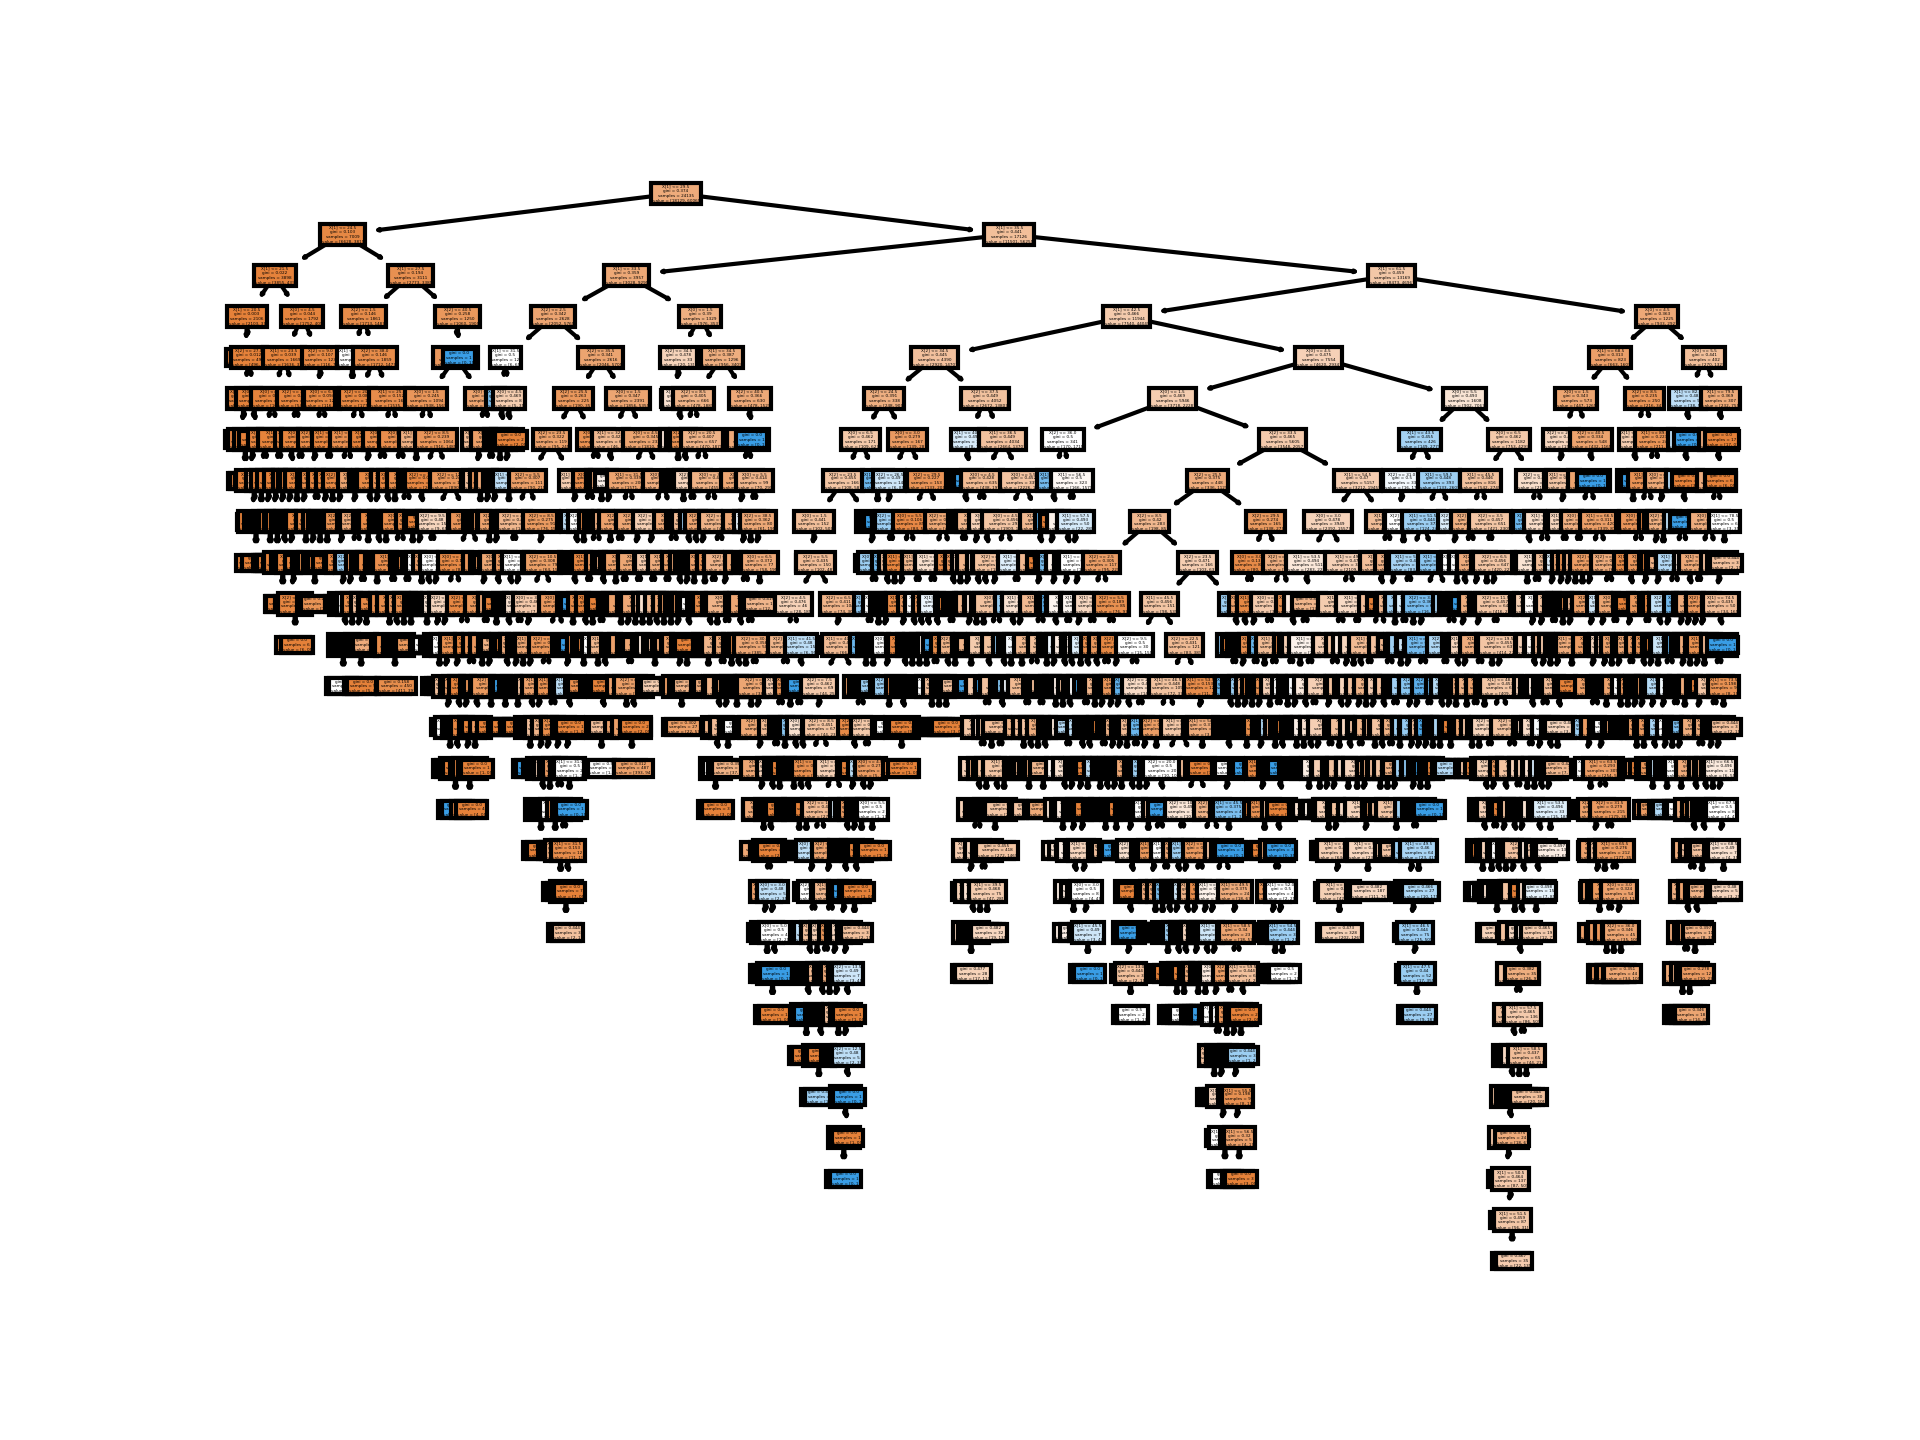
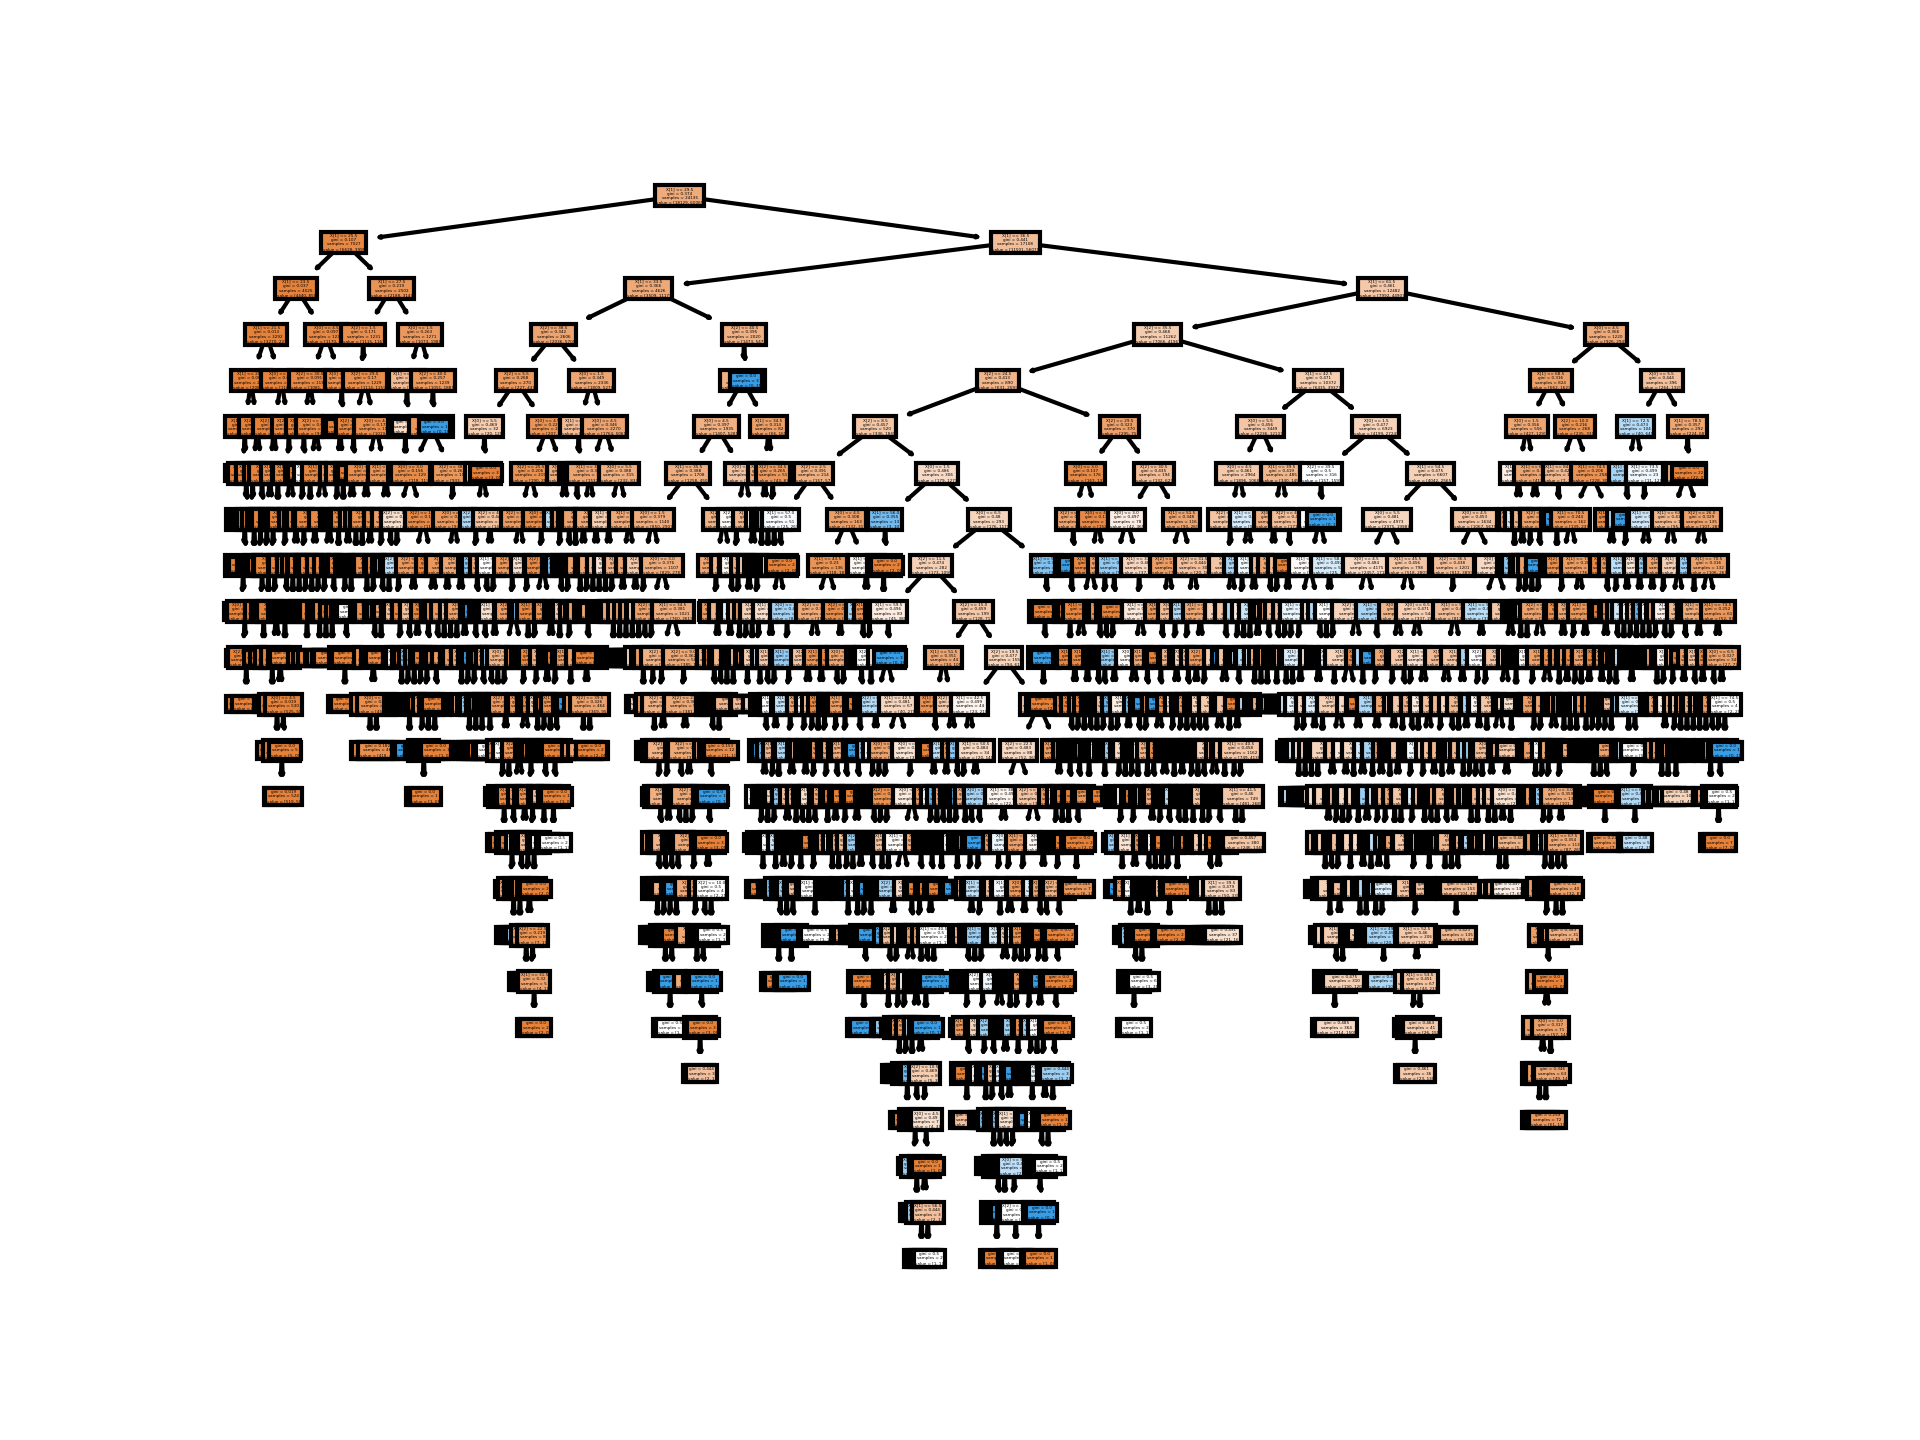
task 3 need to be trained

Changed region(s): [[0.0938, 0.125, 0.9062, 0.9062]]

diff --git a/sR00174250.py b/sR00174250.py
@@ -12,7 +12,6 @@ Created on a sunny day
 import numpy as np
 import pandas as pd
 import matplotlib.pyplot as plt
-# from pandas.conftest import iris
 from sklearn import tree
 from sklearn.model_selection import StratifiedShuffleSplit
 from sklearn.neighbors import KNeighborsClassifier
@@ -22,47 +21,134 @@ df = pd.read_csv("humanDetails.csv", encoding="ISO-8859-1")
 pd.set_option('display.max_rows', df.shape[0] + 1)
 
 
-# def Task1():
-#     flt = df[[' workclass', 'age', 'Income', 'native-country']].copy()
+def Task1():
+    flt = df[[' workclass', 'age', 'Income', 'native-country']].copy()
+
+    # remove unknown cells
+    flt[' workclass'] = flt[' workclass'].replace(' ?', np.nan)
+    flt = flt.dropna(subset=[' workclass'])
+
+    # remove values with 's'
+    flt['age'] = flt['age'].str.replace(r's', '')
+    flt['age'] = flt['age'].apply(pd.to_numeric, errors='coerce')
+
+    # remove unknown countries
+    flt['native-country'] = flt['native-country'].replace(' ?', np.nan)
+    flt = flt.dropna(subset=['native-country'])
+
+    # convert income to numeric
+    flt.loc[flt['Income'].str.contains('<=50K', na=False), 'Income'] = 1
+    flt.loc[flt['Income'].str.contains('>50K', na=False), 'Income'] = 2
+    flt['Income'] = flt['Income'].apply(pd.to_numeric, errors='coerce')
+
+    allCountries = np.unique(flt['native-country'].astype(str))
+    dict2 = {}
+    c = 1
+    for ac in allCountries:
+        dict2[ac] = c
+        c = c + 1
+    flt['native-country'] = flt['native-country'].map(dict2)
+
+    allClasses = np.unique(flt[' workclass'].astype(str))
+    dict3 = {}
+    c2 = 1
+    for ac in allClasses:
+        dict3[ac] = c2
+        c2 = c2 + 1
+    flt[' workclass'] = flt[' workclass'].map(dict3)
+    flt = flt.dropna()
+
+    X = flt[[' workclass', 'age', 'native-country']]  # features
+    y = flt[['Income']]  # target variables
+
+    # # cross validation
+    kfold = StratifiedShuffleSplit(n_splits=5, test_size=0.2)
+
+    trI = []
+    tsI = []
+    # decision tree classifier
+    tree_clf = tree.DecisionTreeClassifier()
+    tree_clf.fit(X, y)
+
+    default = tree_clf.get_depth()
+    tree_tr = []
+    tree_ts = []
+
+    for i in range(0, default - 1):
+        tree_clf = tree.DecisionTreeClassifier(max_depth=i + 1)
+        for train, test in kfold.split(X, y):
+            tree_clf.fit(X.iloc[train], y.iloc[train])
+            trI.append(tree_clf.score(X.iloc[train], y.iloc[train]))
+            tsI.append(tree_clf.score(X.iloc[test], y.iloc[test]))
+        print(i + 1)
+        tree_tr.append(np.mean(trI))
+        tree_ts.append(np.mean(tsI))
+        print("----------")
+    plt.plot(tree_ts)
+    plt.plot(tree_tr)
+    print(tree_clf.score(X, y))
+    plt.show()
+
+    # plot
+    # tree.plot_tree(tree_clf, filled=True, label='all')
+    # plt.savefig('tree.png', dpi=300)
+
+
+
+Task1()
+
+# def Task2():
+#     flt = df[['hours-per-week', 'occupation ', 'age', 'relationship',
+#               'Income']].copy()
 #
-#     # remove unknown cells
-#     flt[' workclass'] = flt[' workclass'].replace(' ?', np.nan)
-#     flt = flt.dropna(subset=[' workclass'])
+#     # replace unknown with most frequent
+#     flt['occupation '] = flt['occupation '].replace(' ?', np.nan)
+#     flt['occupation '] = flt['occupation '].fillna(flt['occupation '].mode()[0])
 #
 #     # remove values with 's'
 #     flt['age'] = flt['age'].str.replace(r's', '')
 #     flt['age'] = flt['age'].apply(pd.to_numeric, errors='coerce')
 #
-#     # remove unknown countries
-#     flt['native-country'] = flt['native-country'].replace(' ?', np.nan)
-#     flt = flt.dropna(subset=['native-country'])
+#     # remove 'Other-relative'
+#     flt['relationship'] = flt['relationship'].replace(' Other-relative', np.nan)
+#     flt = flt.dropna(subset=['relationship'])
 #
-#     # convert income to numeric
+#     # remove 'hours-per-week' values only mentioned once
+#     flt['hours-per-week'] = flt['hours-per-week'].replace(82, np.nan)
+#     flt['hours-per-week'] = flt['hours-per-week'].replace(94, np.nan)
+#     flt['hours-per-week'] = flt['hours-per-week'].replace(92, np.nan)
+#     flt['hours-per-week'] = flt['hours-per-week'].replace(87, np.nan)
+#     flt['hours-per-week'] = flt['hours-per-week'].replace(74, np.nan)
+#     flt = flt.dropna(subset=['hours-per-week'])
+#
+#     # convert income to numeric with 2 values
 #     flt.loc[flt['Income'].str.contains('<=50K', na=False), 'Income'] = 1
 #     flt.loc[flt['Income'].str.contains('>50K', na=False), 'Income'] = 2
 #     flt['Income'] = flt['Income'].apply(pd.to_numeric, errors='coerce')
 #
-#     allCountries = np.unique(flt['native-country'].astype(str))
+#     # convert 'occupation ' to numeric
+#     allOccupations = np.unique(flt['occupation '].astype(str))
 #     dict2 = {}
 #     c = 1
-#     for ac in allCountries:
+#     for ac in allOccupations:
 #         dict2[ac] = c
 #         c = c + 1
-#     flt['native-country'] = flt['native-country'].map(dict2)
+#     flt['occupation '] = flt['occupation '].map(dict2)
 #
-#     allClasses = np.unique(flt[' workclass'].astype(str))
+#     # convert 'relationship' to numeric
+#     allClasses = np.unique(flt['relationship'].astype(str))
 #     dict3 = {}
 #     c2 = 1
 #     for ac in allClasses:
 #         dict3[ac] = c2
 #         c2 = c2 + 1
-#     flt[' workclass'] = flt[' workclass'].map(dict3)
+#     flt['relationship'] = flt['relationship'].map(dict3)
 #     flt = flt.dropna()
 #
-#     X = flt[[' workclass', 'age', 'native-country']]  # features
+#     X = flt[['occupation ', 'age', 'relationship', 'hours-per-week']]  # features
 #     y = flt[['Income']]  # target variables
 #
-#     # # cross validation
+#     # cross validation
 #     kfold = StratifiedShuffleSplit(n_splits=5, test_size=0.2)
 #
 #     trI = []
@@ -70,11 +156,9 @@ pd.set_option('display.max_rows', df.shape[0] + 1)
 #     # decision tree classifier
 #     tree_clf = tree.DecisionTreeClassifier()
 #     tree_clf.fit(X, y)
-#
 #     default = tree_clf.get_depth()
 #     tree_tr = []
 #     tree_ts = []
-#
 #     for i in range(2, default - 1):
 #         tree_clf = tree.DecisionTreeClassifier(max_depth=i + 1)
 #         for train, test in kfold.split(X, y):
@@ -85,117 +169,32 @@ pd.set_option('display.max_rows', df.shape[0] + 1)
 #         tree_tr.append(np.mean(trI))
 #         tree_ts.append(np.mean(tsI))
 #         print("----------")
-#     plt.plot(tree_ts)
+#     plt.plot(tree_ts, color='green')
 #     plt.plot(tree_tr)
 #     print(tree_clf.score(X, y))
 #     plt.show()
 #
-#     # tree.plot_tree(tree_clf, filled=True, label='all')
-#     # plt.savefig('tree.png', dpi=300)
+#     # K Nearest Neighbour
+#     knn = KNeighborsClassifier()
+#     knn_tr = []
+#     knn_ts = []
+#     for i in range(1, 5):
+#         knn = KNeighborsClassifier(n_neighbors=i)
+#         for train, test in kfold.split(X, y):
+#             knn.fit(X.iloc[train], y.iloc[train].values.ravel())
+#             trI.append(knn.score(X.iloc[train], y.iloc[train]))
+#             tsI.append(knn.score(X.iloc[test], y.iloc[test]))
+#         print(i + 1)
+#         knn_tr.append(np.mean(trI))
+#         knn_ts.append(np.mean(tsI))
+#         print('------------')
+#     plt.plot(knn_tr)
+#     plt.plot(knn_ts)
+#     print(knn.score(X, y))
+#     plt.show()
 #
-#     r = export_text(tree_clf, feature_names=iris['feature_names'])
-#     print(r)
 #
-# Task1()
-
-def Task2():
-    flt = df[['hours-per-week', 'occupation ', 'age', 'relationship',
-              'Income']].copy()
-
-    # replace unknown with most frequent
-    flt['occupation '] = flt['occupation '].replace(' ?', np.nan)
-    flt['occupation '] = flt['occupation '].fillna(flt['occupation '].mode()[0])
-
-    # remove values with 's'
-    flt['age'] = flt['age'].str.replace(r's', '')
-    flt['age'] = flt['age'].apply(pd.to_numeric, errors='coerce')
-
-    # remove 'Other-relative'
-    flt['relationship'] = flt['relationship'].replace(' Other-relative', np.nan)
-    flt = flt.dropna(subset=['relationship'])
-
-    # remove 'hours-per-week' values only mentioned once
-    flt['hours-per-week'] = flt['hours-per-week'].replace(82, np.nan)
-    flt['hours-per-week'] = flt['hours-per-week'].replace(94, np.nan)
-    flt['hours-per-week'] = flt['hours-per-week'].replace(92, np.nan)
-    flt['hours-per-week'] = flt['hours-per-week'].replace(87, np.nan)
-    flt['hours-per-week'] = flt['hours-per-week'].replace(74, np.nan)
-    flt = flt.dropna(subset=['hours-per-week'])
-
-    # convert income to numeric with 2 values
-    flt.loc[flt['Income'].str.contains('<=50K', na=False), 'Income'] = 1
-    flt.loc[flt['Income'].str.contains('>50K', na=False), 'Income'] = 2
-    flt['Income'] = flt['Income'].apply(pd.to_numeric, errors='coerce')
-
-    # convert 'occupation ' to numeric
-    allOccupations = np.unique(flt['occupation '].astype(str))
-    dict2 = {}
-    c = 1
-    for ac in allOccupations:
-        dict2[ac] = c
-        c = c + 1
-    flt['occupation '] = flt['occupation '].map(dict2)
-
-    # convert 'relationship' to numeric
-    allClasses = np.unique(flt['relationship'].astype(str))
-    dict3 = {}
-    c2 = 1
-    for ac in allClasses:
-        dict3[ac] = c2
-        c2 = c2 + 1
-    flt['relationship'] = flt['relationship'].map(dict3)
-    flt = flt.dropna()
-
-    X = flt[['occupation ', 'age', 'relationship', 'hours-per-week']]  # features
-    y = flt[['Income']]  # target variables
-
-    # cross validation
-    kfold = StratifiedShuffleSplit(n_splits=5, test_size=0.2)
-
-    trI = []
-    tsI = []
-    # decision tree classifier
-    tree_clf = tree.DecisionTreeClassifier()
-    tree_clf.fit(X, y)
-    default = tree_clf.get_depth()
-    tree_tr = []
-    tree_ts = []
-    for i in range(2, default - 1):
-        tree_clf = tree.DecisionTreeClassifier(max_depth=i + 1)
-        for train, test in kfold.split(X, y):
-            tree_clf.fit(X.iloc[train], y.iloc[train])
-            trI.append(tree_clf.score(X.iloc[train], y.iloc[train]))
-            tsI.append(tree_clf.score(X.iloc[test], y.iloc[test]))
-        print(i + 1)
-        tree_tr.append(np.mean(trI))
-        tree_ts.append(np.mean(tsI))
-        print("----------")
-    plt.plot(tree_ts, color='green')
-    plt.plot(tree_tr)
-    print(tree_clf.score(X, y))
-    plt.show()
-
-    # K Nearest Neighbour
-    # knn = KNeighborsClassifier()
-    # knn_tr = []
-    # knn_ts = []
-    # for i in range(1, 5):
-    #     knn = KNeighborsClassifier(n_neighbors=i)
-    #     for train, test in kfold.split(X, y):
-    #         knn.fit(X.iloc[train], y.iloc[train].values.ravel())
-    #         trI.append(knn.score(X.iloc[train], y.iloc[train]))
-    #         tsI.append(knn.score(X.iloc[test], y.iloc[test]))
-    #     print(i + 1)
-    #     knn_tr.append(np.mean(trI))
-    #     knn_ts.append(np.mean(tsI))
-    #     print('------------')
-    # plt.plot(knn_tr)
-    # plt.plot(knn_ts)
-    # print(knn.score(X, y))
-    # plt.show()
-
-
-Task2()
+# Task2()
 
 # def Task3():
 #     flt = df[['fnlwgt', 'education-num', 'age', 'hours-per-week']].copy()
